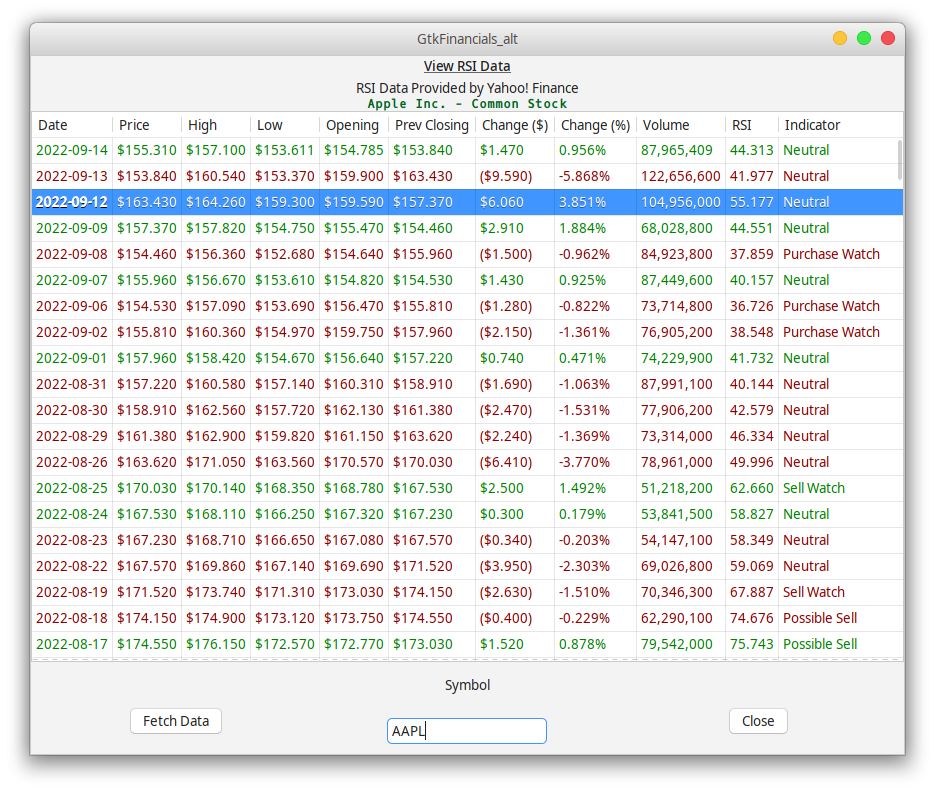
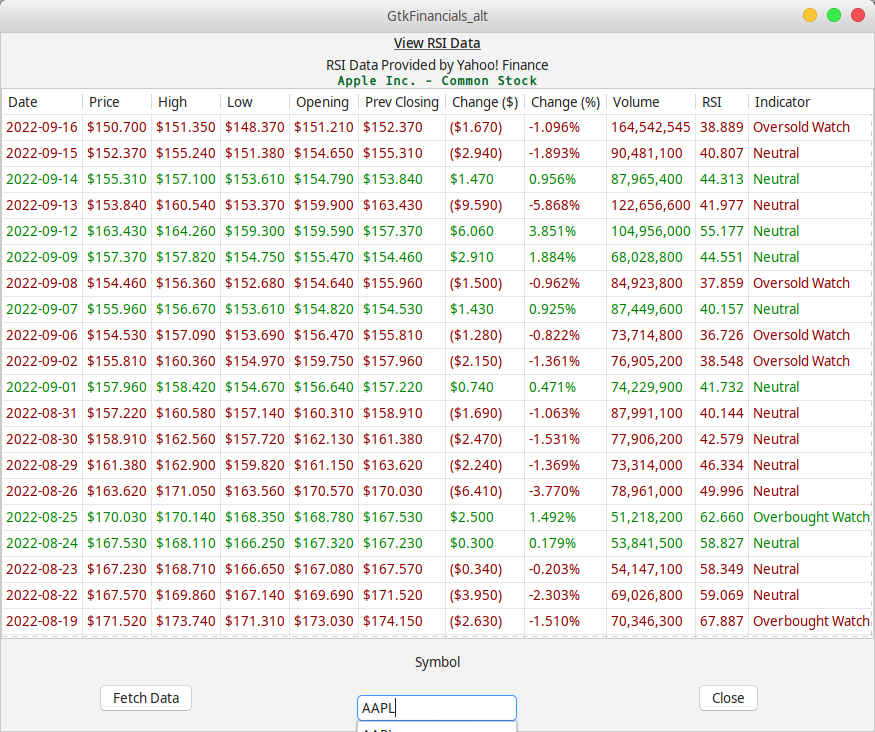
changed RSI indicator signal names

diff --git a/src/workfuncs/working_functions.c b/src/workfuncs/working_functions.c
@@ -706,21 +706,15 @@ double calc_rsi ( double avg_gain, double avg_loss ){
 char *rsi_indicator( double rsi )
 /* Return an indicator string. Do not free return value (faster using stack memory). */
 {
-    char *poss_sell = "Possible Sell";
-    char *sell_watch = "Sell Watch";
-    char *neutral = "Neutral";
-    char *purch_watch = "Purchase Watch";
-    char *poss_purch = "Possible Purchase";
-
     if ( rsi >= 70 ) {
-        return poss_sell;
+        return "Overbought";
 	} else if ( rsi >= 60 && rsi < 70 ) {
-        return sell_watch;
+        return "Overbought Watch";
 	} else if ( rsi > 40 && rsi < 60 ) {
-        return neutral;
+        return "Neutral";
 	} else if ( rsi > 30 && rsi <= 40 ) {
-        return purch_watch;
+        return "Oversold Watch";
 	} else {
-        return poss_purch;
+        return "Oversold";
 	}
 }
